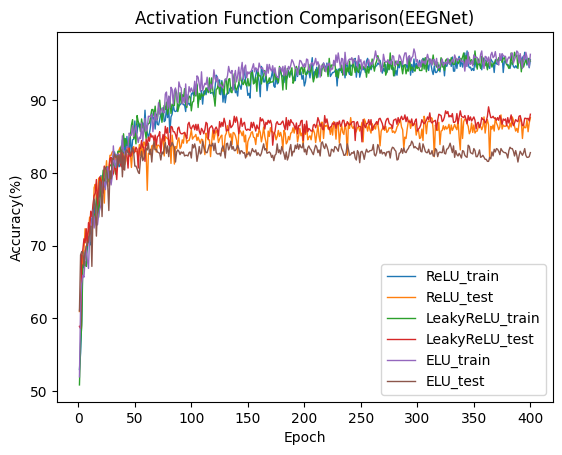
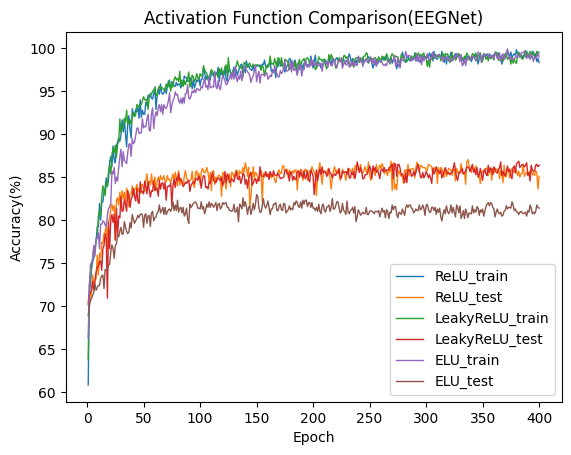
Origin comparison graph

diff --git a/train.py b/train.py
@@ -17,7 +17,7 @@ if __name__ == "__main__":
     accuracyDict = {}
 
     # Hyper parameter
-    batch_size = 64
+    batch_size = 16
     learning_rate = 1e-3
     epochs = 400
     loss_function = nn.CrossEntropyLoss()
@@ -30,10 +30,10 @@ if __name__ == "__main__":
 
     for activation in activationList:
         print(f"{network} with {activation} training start")
-        if network == "EEG":
-            model = EEGNet(activation).to(device)
+        if network == "EEGNet":
+            model = EEGNetOrigin(activation).to(device)
         else:
-            model = DeepConvNet(activation).to(device)
+            model = DeepConvNetOrigin(activation).to(device)
         optimizer = torch.optim.Adam(model.parameters(), lr=learning_rate)
 
         *accuracy, = epoch_loop(epochs, trainLoader, testLoader, model, loss_function, optimizer)
